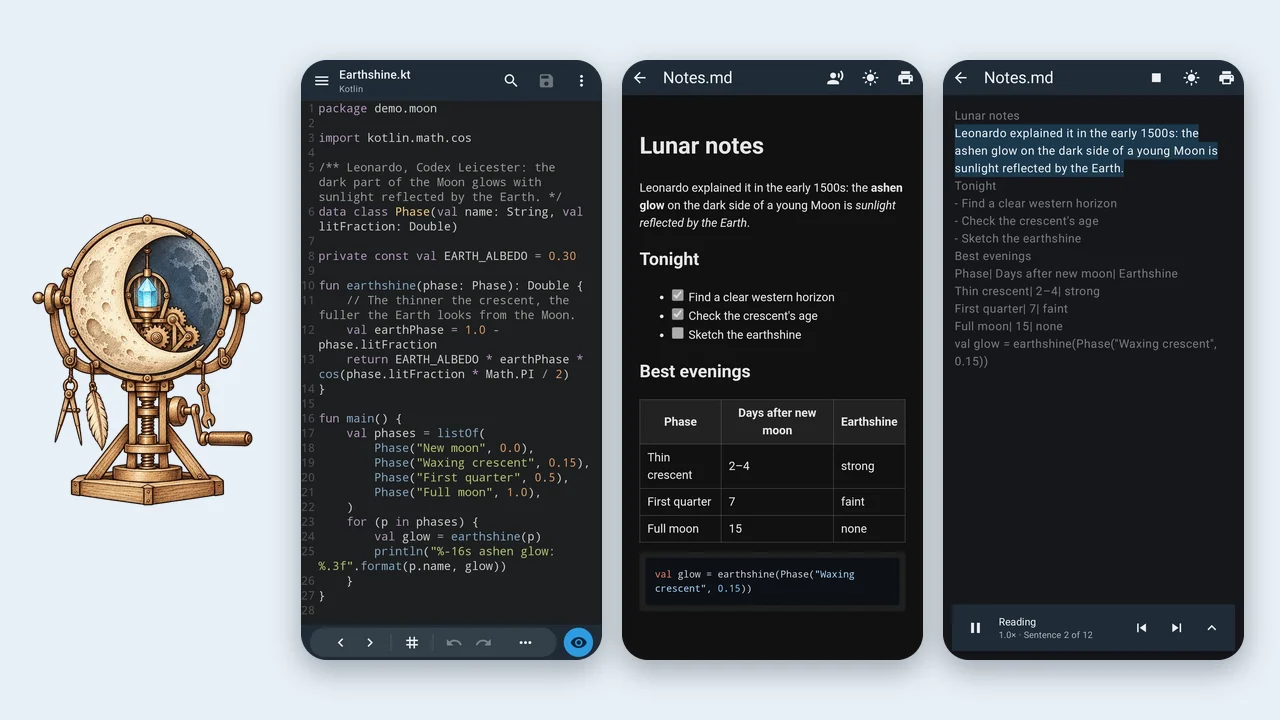
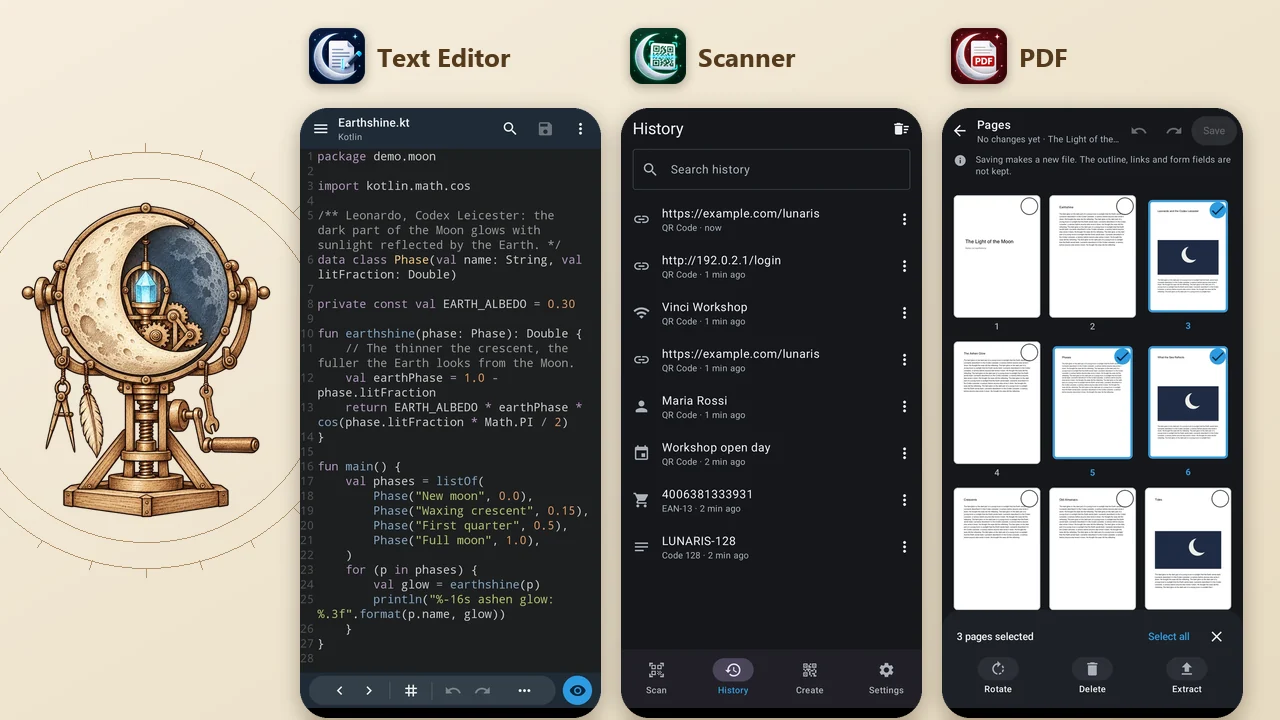
Profile README: Lunaris Essentials with its three apps, on parchment

diff --git a/README.md b/README.md
@@ -32,8 +32,8 @@
 <td width="50%" valign="top"><b><a href="https://github.com/martindavinci/AvatarNotes">Avatar Notes</a></b><br>Sticky notes for Windows 10 and 11 with a chibi neko girl hanging on them, who reminds you of what is due and nags, a little more each minute, until you tick it. Notes are Markdown files edited as Obsidian's live preview shows them, with pages, pictures, dues, encrypted notes and a window with all of them. 14 languages, no network connection at all. Freeware.</td>
 </tr>
 <tr>
-<td width="50%"><a href="https://github.com/martindavinci/lunaris-essentials"><img src="res/lunaris.webp" width="100%" alt="A Leonardo-style machine of wood and brass turning a crescent moon with a blue crystal at its heart; beside it Lunaris Text Editor on a phone: a Kotlin file, a Markdown preview and a document being read aloud"></a></td>
-<td width="50%" valign="top"><b><a href="https://github.com/martindavinci/lunaris-essentials">Lunaris Essentials</a></b><br>The everyday Android utilities, without the ads: offline, no tracking, no account, only the permissions a tool truly needs. The first one is Lunaris Text Editor, a text and code editor with 54 highlighted languages, tabs, search and replace, Markdown and HTML preview and reading aloud, and no system permissions at all. Free software under the GPL.</td>
+<td width="50%"><a href="https://github.com/martindavinci/lunaris-essentials"><img src="res/lunaris.webp" width="100%" alt="On parchment, a Leonardo-style machine of wood and brass turning a crescent moon with a blue crystal at its heart; beside it three columns, each with an app's icon and name over its phone: Text Editor with a Kotlin file, the history of Scanner, and the grid of pages of PDF"></a></td>
+<td width="50%" valign="top"><b><a href="https://github.com/martindavinci/lunaris-essentials">Lunaris Essentials</a></b><br>The everyday Android utilities, without the ads: offline, no tracking, no account, only the permissions a tool truly needs. Three so far: Lunaris Text Editor, a text and code editor with 54 highlighted languages, Markdown and HTML preview and reading aloud; Lunaris Scanner, which reads and makes QR codes and barcodes and warns about suspicious links; and Lunaris PDF, a reader that also annotates, fills in forms, reorganizes pages and makes new PDFs. Free software under the GPL.</td>
 </tr>
 <tr>
 <td width="50%"><a href="https://github.com/martindavinci/FeatherSend"><img src="res/feathersend.webp" width="100%" alt="The FeatherSend feather, a smiling feather carrying an envelope and trailing speed lines, beside the main window with its lists of devices and transfers and its buttons to send files, a folder or the clipboard"></a></td>
